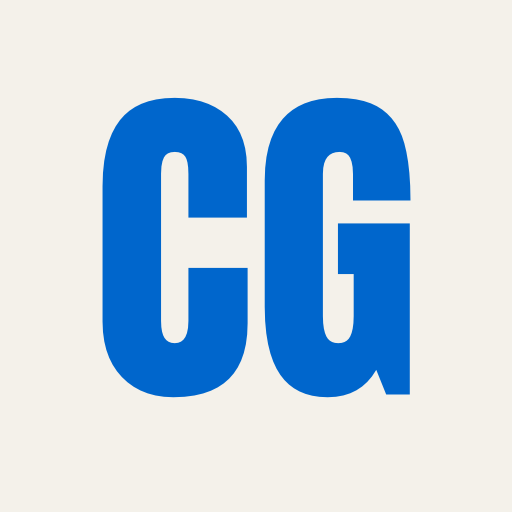
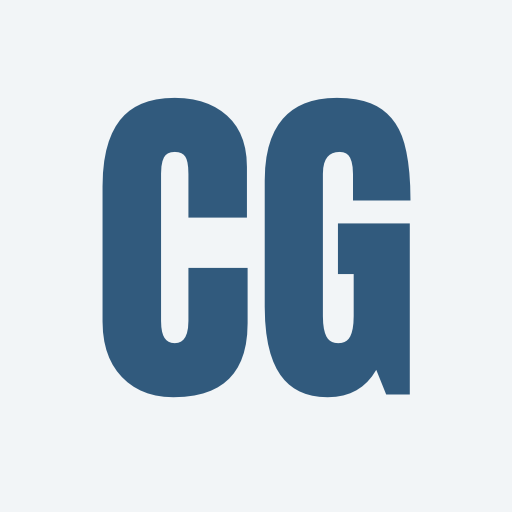
Create landing page (#36)
* Update icon.png to match the current color scheme

* Create a landing page using GitHub Pages

Changed region(s): [[0.1875, 0.1875, 0.8125, 0.7812]]

diff --git a/docs/index.html b/docs/index.html
@@ -1,0 +1,118 @@
+<!doctype html>
+<html lang="en">
+  <head>
+    <meta charset="UTF-8" />
+    <meta name="viewport" content="width=device-width, initial-scale=1" />
+    <title>CollegeGradez – College grade calculator for Windows</title>
+    <meta
+      name="description"
+      content="CollegeGradez is a local-first Windows grade tracker and GPA calculator. A college grade calculator that is hopefully better than a spreadsheet."
+    />
+    <link rel="icon" type="image/png" href="icon.png" />
+    <link rel="stylesheet" href="styles.css" />
+  </head>
+  <body>
+    <main>
+      <header class="hero">
+        <img class="logo" src="icon.png" alt="" width="88" height="88" />
+        <h1>CollegeGradez</h1>
+        <p class="pitch">
+          A college grade calculator that is hopefully better than a spreadsheet
+        </p>
+        <a
+          class="button"
+          href="https://github.com/ethanluginbuhl/CollegeGradez/releases"
+        >
+          Download for Windows
+        </a>
+        <p class="version">
+          Beta &middot; v0.3.0-beta.1 &middot; Free &amp; open source
+        </p>
+        <p class="note">
+          <strong>Heads up:</strong> the installer isn't code-signed yet, so
+          Windows SmartScreen may show a warning. Choose
+          <em>More info</em> &rarr; <em>Run anyway</em> if the download came
+          from this project's
+          <a href="https://github.com/ethanluginbuhl/CollegeGradez/releases"
+            >GitHub Releases</a
+          >.
+        </p>
+
+        <figure class="screenshot">
+          <img
+            src="screenshot.png"
+            width="1920"
+            height="1140"
+            alt="CollegeGradez showing a list of courses with grades, an overall GPA, and the default grading policy editor"
+          />
+        </figure>
+      </header>
+
+      <section class="features" aria-labelledby="features-title">
+        <h2 id="features-title">What it does</h2>
+        <ul>
+          <li>
+            <h3>Courses, categories, assignments</h3>
+            <p>Track everything for every course in one place.</p>
+          </li>
+          <li>
+            <h3>Weighted or points-based</h3>
+            <p>
+              Calculate grades either way, and drop the lowest scores in a
+              category.
+            </p>
+          </li>
+          <li>
+            <h3>Live grades and GPA</h3>
+            <p>
+              See course grades and a credit-weighted GPA update as you type.
+              Incomplete courses are flagged, never counted as zero.
+            </p>
+          </li>
+          <li>
+            <h3>Your grading policy</h3>
+            <p>
+              Set custom thresholds, letters, and grade points, with per-course
+              overrides.
+            </p>
+          </li>
+          <li>
+            <h3>Local-first and private</h3>
+            <p>
+              No account and no telemetry. Your data stays on your computer.
+            </p>
+          </li>
+          <li>
+            <h3>Backups and export</h3>
+            <p>
+              Automatic timestamped backups, plus JSON export and import to move
+              your data.
+            </p>
+          </li>
+        </ul>
+      </section>
+    </main>
+
+    <footer>
+      <nav aria-label="Project links">
+        <a href="https://github.com/ethanluginbuhl/CollegeGradez">GitHub</a>
+        <a href="https://github.com/ethanluginbuhl/CollegeGradez/releases"
+          >Releases</a
+        >
+        <a
+          href="https://github.com/ethanluginbuhl/CollegeGradez/blob/main/LICENSE"
+          >MIT License</a
+        >
+        <a
+          href="https://github.com/ethanluginbuhl/CollegeGradez/blob/main/SECURITY.md"
+          >Security</a
+        >
+        <a
+          href="https://github.com/ethanluginbuhl/CollegeGradez/blob/main/CONTRIBUTING.md"
+          >Contributing</a
+        >
+      </nav>
+      <p>&copy; 2026 Ethan Luginbuhl. Released under the MIT License.</p>
+    </footer>
+  </body>
+</html>

diff --git a/docs/styles.css b/docs/styles.css
@@ -1,0 +1,170 @@
+:root {
+  --bg: #f2f5f7;
+  --paper: #fcfdfd;
+  --ink: #263744;
+  --muted: #5b6973;
+  --line: #d5dfe5;
+  --accent: #315a7d;
+  --accent-hover: #274965;
+  --surface-subtle: #eaf0f4;
+  --shadow: 0 2px 10px rgba(38, 55, 68, 0.07);
+}
+
+* {
+  box-sizing: border-box;
+}
+
+body {
+  margin: 0;
+  background: var(--bg);
+  color: var(--ink);
+  font-family:
+    "Segoe UI",
+    system-ui,
+    -apple-system,
+    sans-serif;
+  line-height: 1.6;
+}
+
+a {
+  color: var(--accent);
+}
+
+a:focus-visible {
+  outline: 3px solid var(--accent);
+  outline-offset: 2px;
+}
+
+main {
+  max-width: 960px;
+  margin: 0 auto;
+  padding: 0 1.25rem;
+}
+
+.hero {
+  text-align: center;
+  padding: 4rem 0 3rem;
+}
+
+.logo {
+  border-radius: 20px;
+}
+
+h1 {
+  margin: 0.75rem 0 0.5rem;
+  font-size: clamp(2.5rem, 7vw, 4rem);
+  line-height: 1.1;
+}
+
+.pitch {
+  max-width: 34rem;
+  margin: 0 auto 2rem;
+  font-size: clamp(1.1rem, 2.5vw, 1.4rem);
+  color: var(--muted);
+}
+
+.button {
+  display: inline-block;
+  padding: 1rem 2.5rem;
+  border-radius: 10px;
+  background: var(--accent);
+  color: #fff;
+  font-size: 1.3rem;
+  font-weight: 600;
+  text-decoration: none;
+  box-shadow: var(--shadow);
+}
+
+.button:hover {
+  background: var(--accent-hover);
+}
+
+.button:focus-visible {
+  outline-color: var(--ink);
+}
+
+.version {
+  margin: 0.75rem 0 1rem;
+  font-size: 0.9rem;
+  color: var(--muted);
+}
+
+.note {
+  max-width: 34rem;
+  margin: 0 auto;
+  padding: 0.75rem 1rem;
+  border: 1px solid var(--line);
+  border-radius: 8px;
+  background: var(--surface-subtle);
+  font-size: 0.9rem;
+  text-align: left;
+}
+
+.screenshot {
+  margin: 3rem 0 0;
+}
+
+.screenshot img {
+  max-width: 100%;
+  height: auto;
+  border: 1px solid var(--line);
+  border-radius: 10px;
+  box-shadow: var(--shadow);
+}
+
+.features {
+  padding-bottom: 4rem;
+}
+
+.features h2 {
+  text-align: center;
+  font-size: 1.75rem;
+}
+
+.features ul {
+  display: grid;
+  grid-template-columns: repeat(auto-fit, minmax(16rem, 1fr));
+  gap: 1rem;
+  margin: 0;
+  padding: 0;
+  list-style: none;
+}
+
+.features li {
+  padding: 1.25rem;
+  border: 1px solid var(--line);
+  border-radius: 10px;
+  background: var(--paper);
+  box-shadow: var(--shadow);
+}
+
+.features h3 {
+  margin: 0 0 0.4rem;
+  font-size: 1.1rem;
+}
+
+.features p {
+  margin: 0;
+  color: var(--muted);
+}
+
+footer {
+  padding: 2rem 1.25rem;
+  border-top: 1px solid var(--line);
+  background: var(--paper);
+  text-align: center;
+  font-size: 0.9rem;
+  color: var(--muted);
+}
+
+footer nav {
+  display: flex;
+  flex-wrap: wrap;
+  justify-content: center;
+  gap: 0.5rem 1.5rem;
+  margin-bottom: 1rem;
+}
+
+footer p {
+  margin: 0;
+}

diff --git a/README.md b/README.md
@@ -13,7 +13,8 @@ maintaining grades in a spreadsheet.
 
 ## Download
 
-Windows installers are published on the
+See the [project website](https://ethanluginbuhl.github.io/CollegeGradez/) for
+an overview. Windows installers are published on the
 [GitHub Releases page](https://github.com/ethanluginbuhl/CollegeGradez/releases).
 The installers are currently unsigned, so Windows SmartScreen may display a
 warning. Verify that downloads come from this repository's releases and review
@@ -171,6 +172,27 @@ publish releases.
 Automatic updates are enabled for packaged prerelease builds. The installer
 and update packages are not code-signed during the beta phase, so Windows
 SmartScreen may still display a warning.
+
+## Project website
+
+The landing page at <https://ethanluginbuhl.github.io/CollegeGradez/> is a
+static, single-page site written in vanilla HTML and CSS. Its source is in the
+[`docs`](docs) folder:
+
+- `docs/index.html`: page content, including the download link, SmartScreen
+  note, and feature list.
+- `docs/styles.css`: styles, using the same palette as the app.
+- `docs/icon.png` and `docs/screenshot.png`: images used on the page.
+
+To preview it locally, open `docs/index.html` in a browser. There is no build
+step. The site is published by GitHub Pages from the `main` branch and `/docs`
+folder (**Settings > Pages > Build and deployment > Deploy from a branch**), so
+merged changes to `docs` go live automatically.
+
+The page is not part of the packaged application. When behavior or a release
+changes, update the hardcoded version label in `docs/index.html` and replace
+`docs/screenshot.png` if the UI has changed noticeably. Keep the feature list
+and SmartScreen note consistent with this README.
 
 ## Contributing
 

diff --git a/CONTRIBUTING.md b/CONTRIBUTING.md
@@ -37,6 +37,10 @@ Keep grade and GPA calculations in `calc.js`, saved-data validation in
 `preload.js`, and browser UI behavior in `renderer.js`. Preserve compatibility
 with existing saved and exported JSON data.
 
+The project website lives in `docs` as plain HTML and CSS and is published by
+GitHub Pages. Keep it in sync with the README when changing user-visible
+features, download instructions, or the version label.
+
 ## Pull requests
 
 Keep pull requests focused and explain any changes to persisted data,
